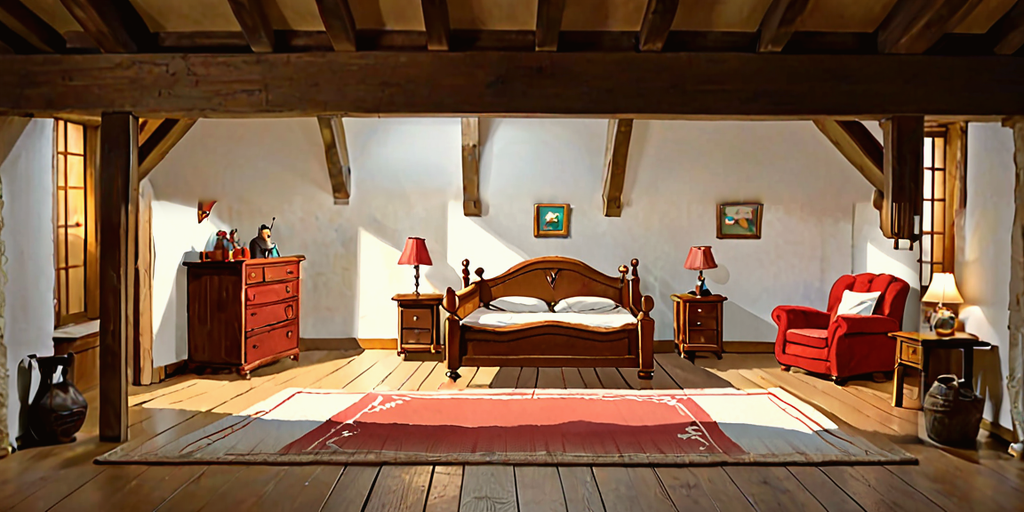
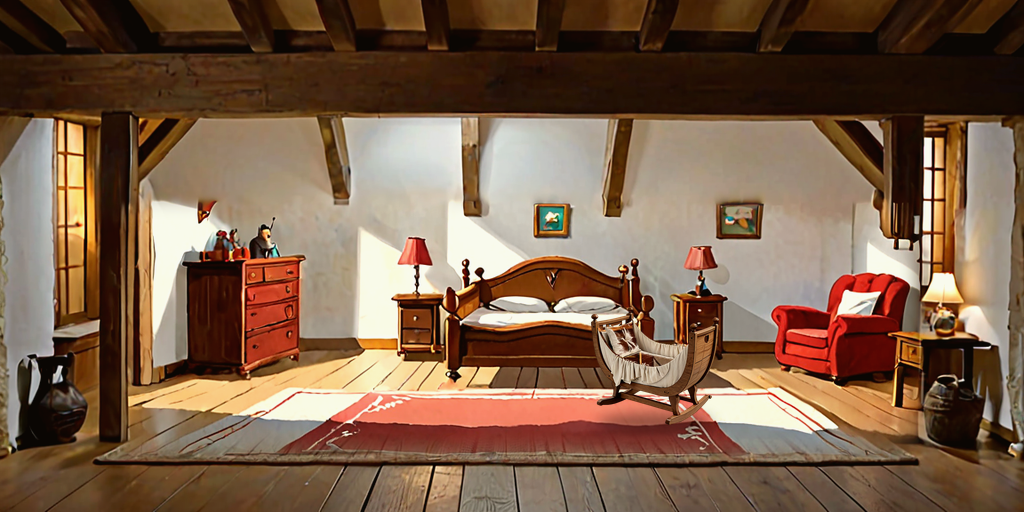
The cradle beside the double bed in the living quarters; repaint the falcon as a bird and the portraits left
Claude-Session: https://claude.ai/code/session_01LxpfNJDLrR1b4p9pJ7xapP

Changed region(s): [[0.5625, 0.5938, 0.7188, 0.8438]]

diff --git a/hearth/tools/art/sdpaint.py b/hearth/tools/art/sdpaint.py
@@ -378,7 +378,7 @@ PETS = {
 COMPANIONS = {
     "Squire": "a young medieval squire boy with a wooden shield and a short sword, full figure",
     "Wolfhound": "a big grey wolfhound dog with a leather collar, standing",
-    "Falcon": "a falcon with spread wings and a leather hood strap",
+    "Falcon": "a real falcon bird, an animal not a person, perched with folded wings, a leather jess on its leg",
     "Firefly": "a big glowing coal firefly, an insect with a bright orange ember body and translucent wings",
 }
 

diff --git a/hearth/docs/TODO.md b/hearth/docs/TODO.md
@@ -4,7 +4,7 @@
 
 ## Графика (бесплатная нейросеть SDXL DreamShaper на машинах GitHub, `SD art`)
 - [x] Комнаты в художественном стиле: все 18 (пачка 1 рисуется)
-- [ ] Жилые покои: одна двуспальная кровать вместо трёх (готово), колыбель рядом — рисуется отдельным предметом, вставит `integrate.py`
+- [x] Жилые покои: одна двуспальная кровать и колыбель рядом
 - [x] Вид комнат по уровням: обустроенная (`_2`, с 4-го уровня) и богатая (`_3`, с 8-го) — 32 картинки (пачка 2)
 - [x] Скала горы вокруг комнат и на месте нераскопанных ячеек — рисованная, не «кубиками»
 - [x] Гора над крепостью — рисованная, с настоящими гребнями
@@ -39,12 +39,12 @@
 
 ## Доделать игру (агенты параллельно)
 - [ ] Предметы как у Hustle Castle: 6 слотов, редкость (обычный → легендарный), случайные характеристики, инвентарь, кузня, трофеи, иконки (`Items/<Kind>`, флаг `itemArt`)
-- [ ] Арена: экран как у Hustle — лига и рейтинг, карточки соперников с отрядом, оборона, лавка славы, журнал и месть, лиги, итог боя
+- [x] Арена: экран как у Hustle — лига и рейтинг, карточки соперников с отрядом, оборона, лавка славы, журнал и месть, лиги, итог боя
 - [x] Админ-меню (скрытое: 5 быстрых нажатий на шестерёнку или долгое нажатие на значок уровня очага): ресурсы, уровень очага, промотка времени, запуск любого события, бои, герои и питомцы, сохранение, флаги арта
 - [ ] События: сверка с EVENTS.md, тесты на каждый вид события и длинная симуляция, окно событий как у Hustle
 - [ ] Портреты питомцев и компаньонов в окнах (картинки рисуются, флаги `petArt`, `companionArt`)
 - [ ] Функции комнат: таверна (найм), лазарет (лечение), библиотека (дерево исследований), тренировочный зал, сторожевая башня (разведка), часовня, архив
-- [ ] Удержание: «Пока вас не было», календарь на 28 наград, сезонный путь (6 недель, 30 шагов, без платной ветки), «Тёплая неделя», зверь недели на Охоте, локальные уведомления (не больше 3 в день)
+- [x] Удержание: «Пока вас не было», календарь на 28 наград, сезонный путь (6 недель, 30 шагов, без платной ветки), «Тёплая неделя», зверь недели на Охоте, локальные уведомления (не больше 3 в день)
 
 ## Вторая волна (после первой: те же файлы)
 - [ ] Жители: черты, редкость, уровни до 60; дух крепости (0–100, ±15% выработки, уход жителей), голод
